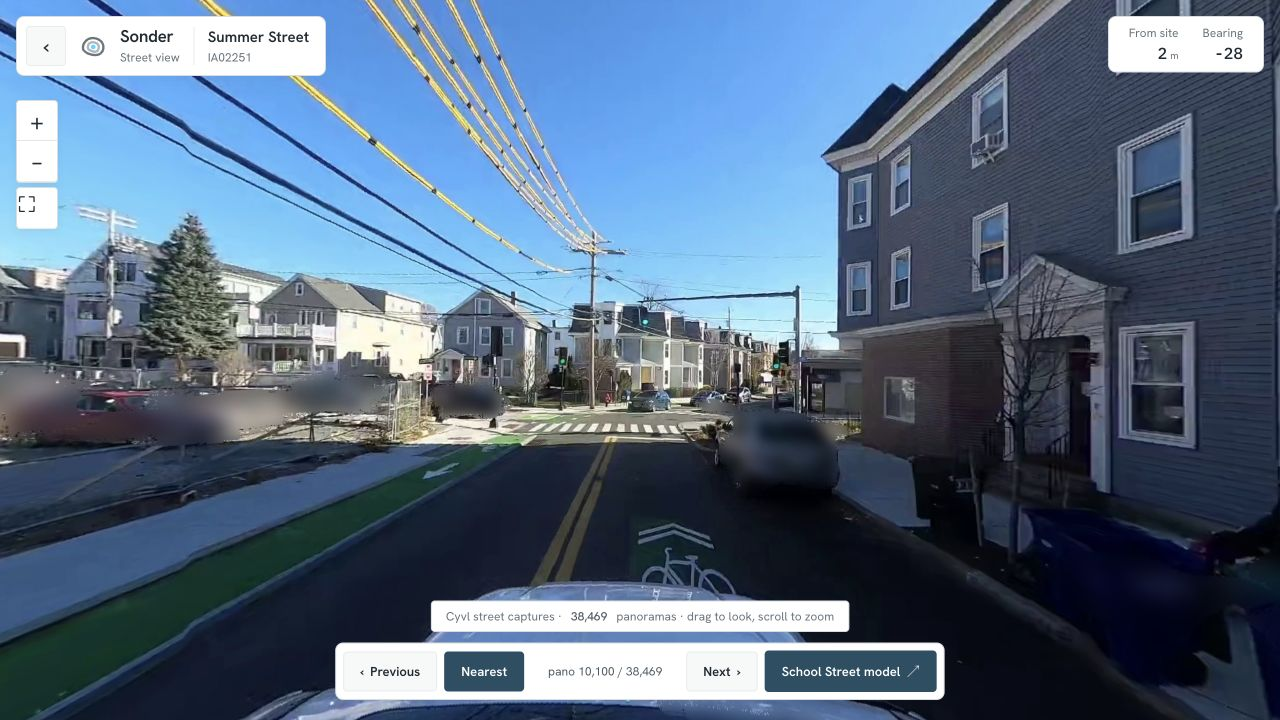
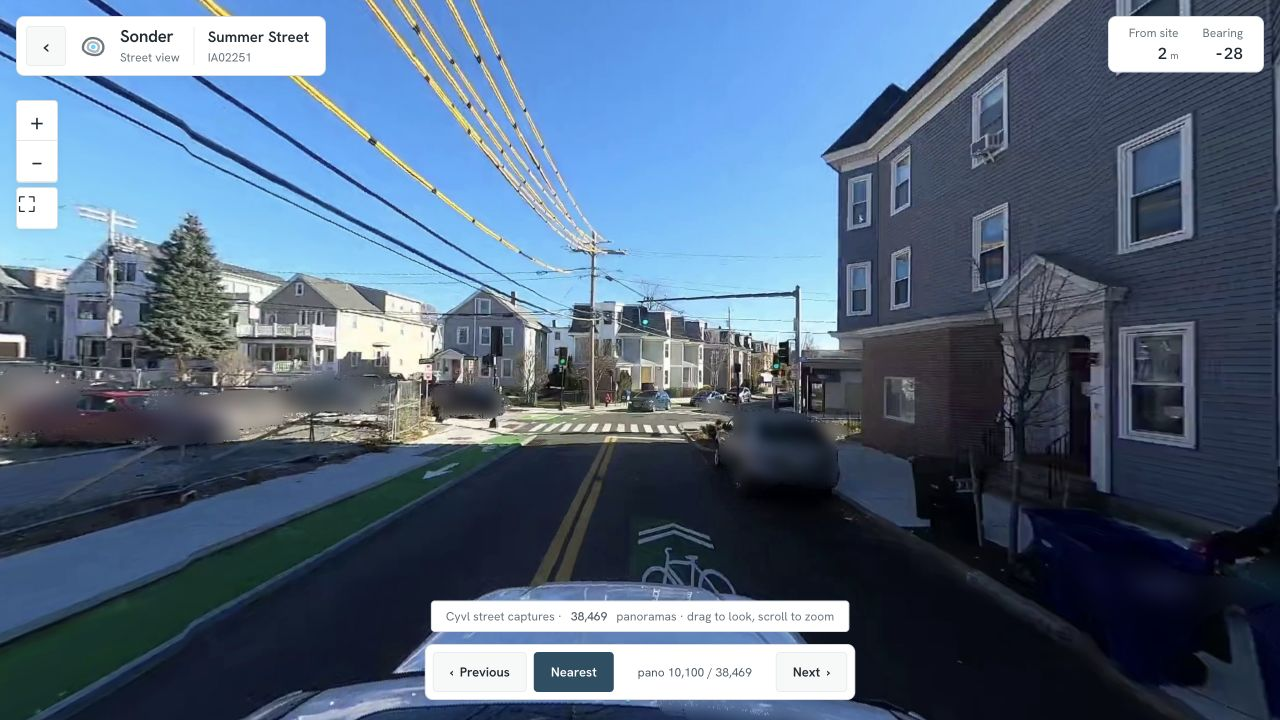
remove public demo links

Changed region(s): [[0.25, 0.8861, 0.75, 0.9778]]

diff --git a/demo/index.html b/demo/index.html
@@ -120,10 +120,6 @@ function clearSelection(){
  document.querySelectorAll('#clist .row').forEach(row=>{row.classList.remove('sel');row.setAttribute('aria-selected','false')})}
 function surveyHtml(s){const lv=LIVE[s.id];if(lv)return liveSurveyHtml(s,lv);
  return '<div class="surveynote">A desk review of mapped data. Confirm usable curb space and electrical capacity on site.</div>'}
-const AUTODESK_URL='https://sonder-cad.vercel.app';
-function autodeskBtn(){
- return `<a class="adskbtn" href="${AUTODESK_URL}" target="_blank" rel="noopener">Example: School Street 3D model <span class="ar">↗</span></a>`;
-}
 function reportSkeleton(s){const m=s.m;
  document.getElementById('rbody').innerHTML=`
   <div class="econ"><div class="ec"><div class="k uppr">Screening score</div><div class="v" style="color:${col(s.score)}">${s.gate?'—':s.score}</div></div>
@@ -146,7 +142,7 @@ function reportSkeleton(s){const m=s.m;
    <div class="kv"><span class="k">Road markings ≤45 m</span><span class="v">${m.activity}</span></div>
    <div class="kv"><span class="k">Traffic / charging demand</span><span class="v">Not available</span></div></div>
   <div class="blk"><div class="bh"><span>Check on site</span></div>
-   <div class="flagbox">Curb access and parking restrictions · accessible route · utility capacity · installation cost and permits. A nearby mapped asset is not a confirmed electrical connection.</div></div><div class="report-actions"><button class="pdfbtn" id="pdfBtn" onclick="openReport()">View full report</button>${autodeskBtn()}</div>`}
+   <div class="flagbox">Curb access and parking restrictions · accessible route · utility capacity · installation cost and permits. A nearby mapped asset is not a confirmed electrical connection.</div></div><div class="report-actions"><button class="pdfbtn" id="pdfBtn" onclick="openReport()">View full report</button></div>`}
 function resolveVerdict(s){const lv=LIVE[s.id];const el=document.getElementById('rVerd');if(lv){const mp={go:['Shortlist','var(--green)'],conditional:['Review','var(--amber)'],no_go:['Screened out','var(--red)']},mx=mp[lv.verdict]||['—','var(--accent)'];el.textContent=mx[0];el.style.color=mx[1];document.getElementById('rReason').textContent=lv.one_line_reason||'';return}const a=verdictOf(s);el.textContent=a[0];el.style.color=a[1];document.getElementById('rReason').textContent=reason(s)}
 function select(id){if(armed)return;const s=S.find(x=>x.id===id);if(!s)return;sel=id;
  const focusWasInList=!!document.activeElement?.closest('#clist');

diff --git a/demo/lookaround.html b/demo/lookaround.html
@@ -75,7 +75,6 @@ html,body{height:100%;background:var(--bg);color:var(--text);font-family:var(--s
  #prev{grid-column:1;grid-row:2}
  #recenter{grid-column:2;grid-row:2}
  #next{grid-column:3;grid-row:2}
- #viewcad{grid-column:1/-1;grid-row:3}
  .btn{padding:9px 7px;font-size:11px;white-space:nowrap}
  .note{display:none}
 }
@@ -149,7 +148,6 @@ html,body{height:100%;background:var(--bg);color:var(--text);font-family:var(--s
  <button class="btn key" id="recenter" aria-label="Return to the nearest capture">Nearest</button>
  <span id="pos" role="status" aria-live="polite">&ndash;</span>
  <button class="btn" id="next" aria-label="Next street capture">Next&ensp;&#8250;</button>
- <button class="btn key" id="viewcad" title="Open the School Street example model">School Street model&ensp;&#8599;</button>
 </div>
 <div class="note glass">Cyvl street captures &middot; <b id="total">&ndash;</b> panoramas &middot; drag to look, scroll to zoom</div>
 <script>
@@ -158,8 +156,6 @@ const qs=new URLSearchParams(location.search);
 if(qs.get('return')==='workspace')document.getElementById('backBtn').href='./?restore=1';
 const site={lat:parseFloat(qs.get('lat')),lng:parseFloat(qs.get('lng')),id:qs.get('site')||'',addr:qs.get('addr')||''};
 const hasSite=isFinite(site.lat)&&isFinite(site.lng);
-const CAD_URL='https://sonder-cad.vercel.app';
-document.getElementById('viewcad').onclick=()=>window.open(CAD_URL,'_blank','noopener');
 function fail(m){document.getElementById('err').style.display='grid';document.getElementById('err').textContent=m;}
 if(!P||!P.id||!P.id.length){fail('The street capture index could not load. Return to the map and try again.');}
 else if(typeof pannellum==='undefined'){fail('The street viewer could not load. Check your connection or return to the map.');}

diff --git a/demo/workspace.css b/demo/workspace.css
@@ -128,7 +128,6 @@ body:has(#report.open) #mapTools{right:calc(var(--inspector) + 18px)}
 .report-actions{display:flex;flex-direction:column;gap:12px;padding-top:4px}
 .pdfbtn{min-height:44px;padding:10px 14px;background:var(--accent);border-color:var(--accent);color:#fff;font-size:14px;font-weight:500}
 .pdfbtn:hover{background:#1e4454;border-color:#1e4454}
-.adskbtn{font-size:12px;line-height:1.6;text-align:left;text-underline-offset:3px;padding:4px 0}
 .evidence{margin-top:18px;border-top:1px solid var(--edge2);padding-top:12px}
 .evidence summary{cursor:pointer;font-size:13px;color:var(--text2);padding:8px 0}
 .evidence .blk{margin-top:12px}

diff --git a/demo/screening.test.js b/demo/screening.test.js
@@ -226,7 +226,6 @@ test('sidebar and printable report disclose proxies instead of generated economi
     assert.match(content, /[Ss]egment length/);
     assert.match(content, /[Nn]ot (?:a confirmed electrical connection|measured usable curb space)/);
   }
-  assert.match(sidebar, /Example: School Street 3D model/);
   assert.doesNotMatch(sidebar, /Agent surveying|Stage 2 · AI Survey/);
   assert.match(report, /Somerville, MA/);
 });

diff --git a/README.md b/README.md
@@ -1,10 +1,6 @@
 # Sonder | EV Charger Site Screening
 
-**Live demo: [sonder-206.vercel.app](https://sonder-206.vercel.app)**
-
 Compare potential curbside EV charger locations using saved Somerville infrastructure data.
-
-The hosted demo is an earlier build. These screenshots show the interface in this checkout.
 
 ![Sonder map and selected street segment](assets/screenshots/workspace.jpg)
 
@@ -14,7 +10,7 @@ Search streets, filter by segment length and screening score, or select an area 
 
 ![Recorded street view on Summer Street](assets/screenshots/street-view.jpg)
 
-Street views open near the selected segment. Returning to the map restores the search, filters, and selection. The [Autodesk example](https://sonder-cad.vercel.app) shows one School Street model.
+Street views open near the selected segment. Returning to the map restores the search, filters, and selection. The Autodesk viewer and model pipeline are in [`cad/`](cad/).
 
 ## Quick Start
 
